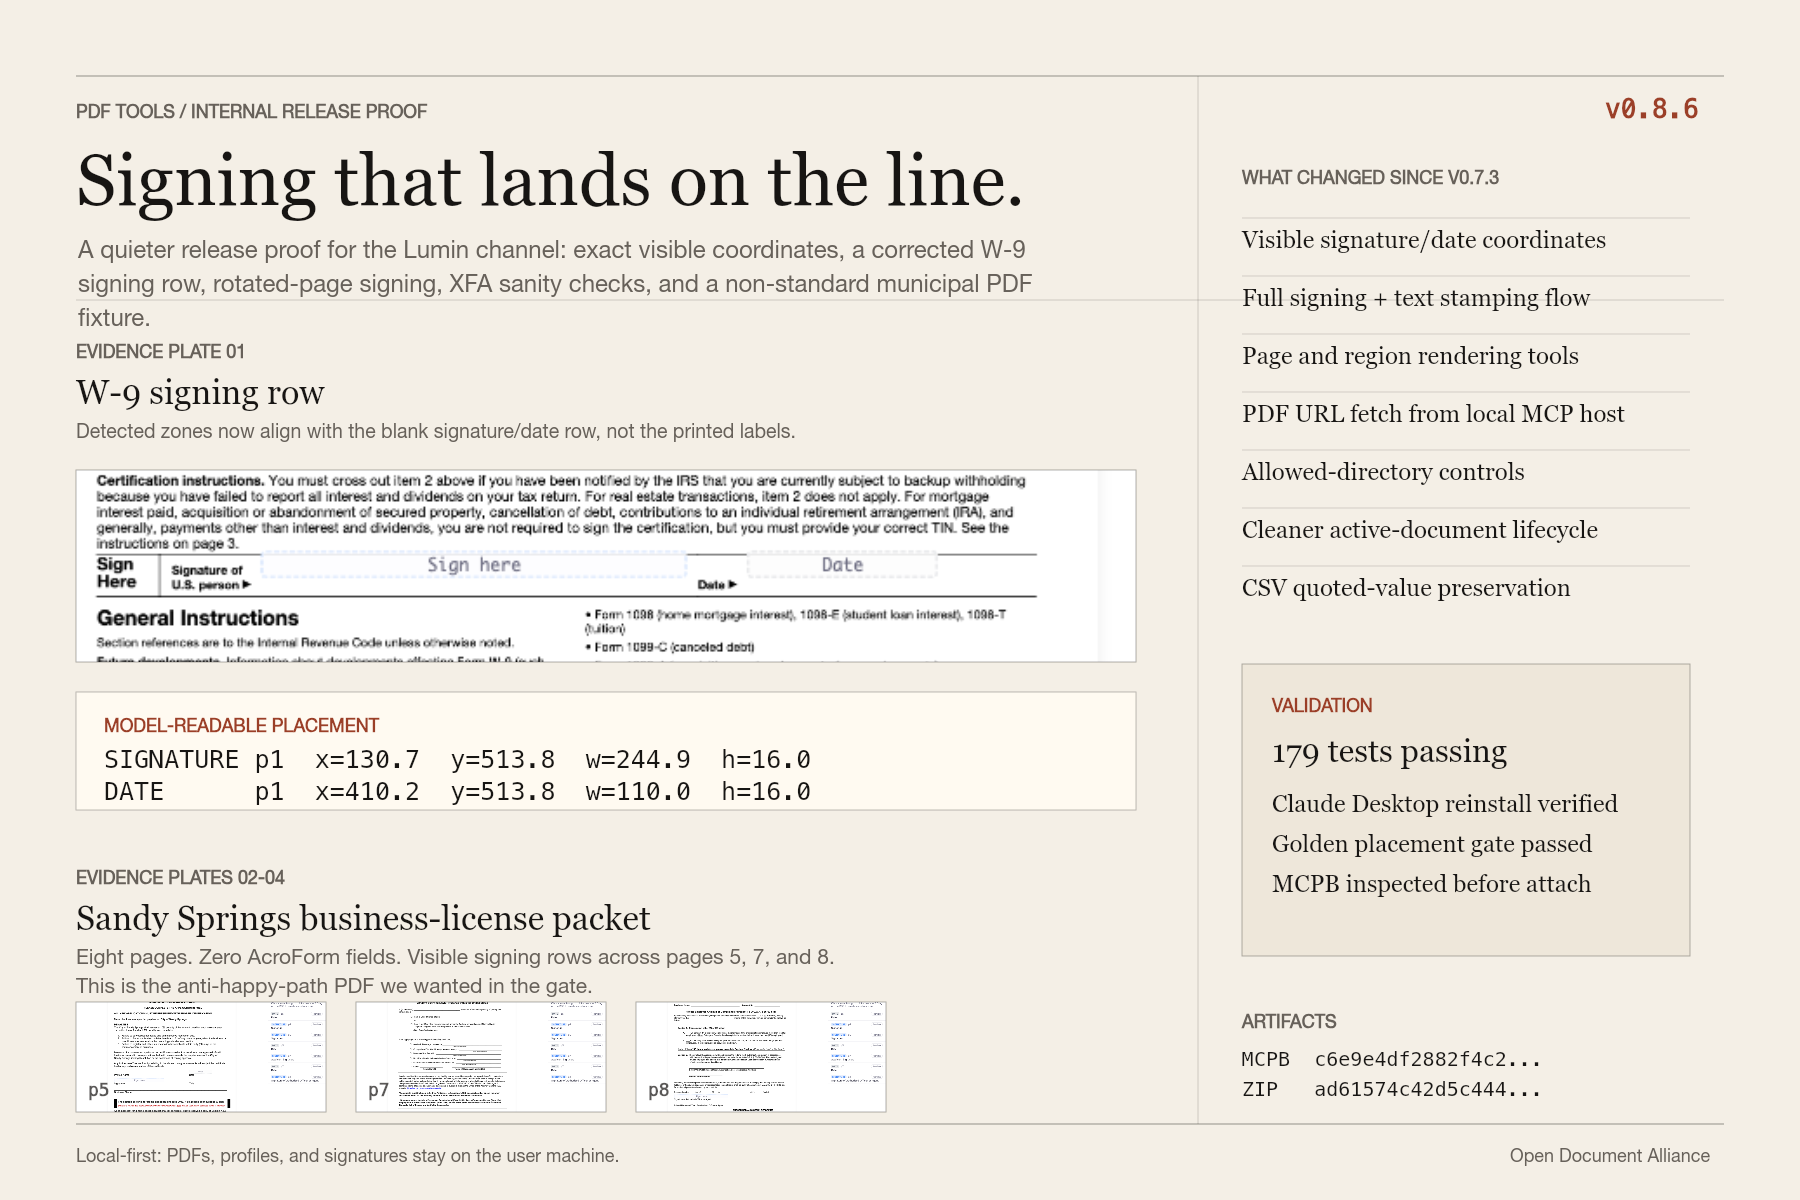
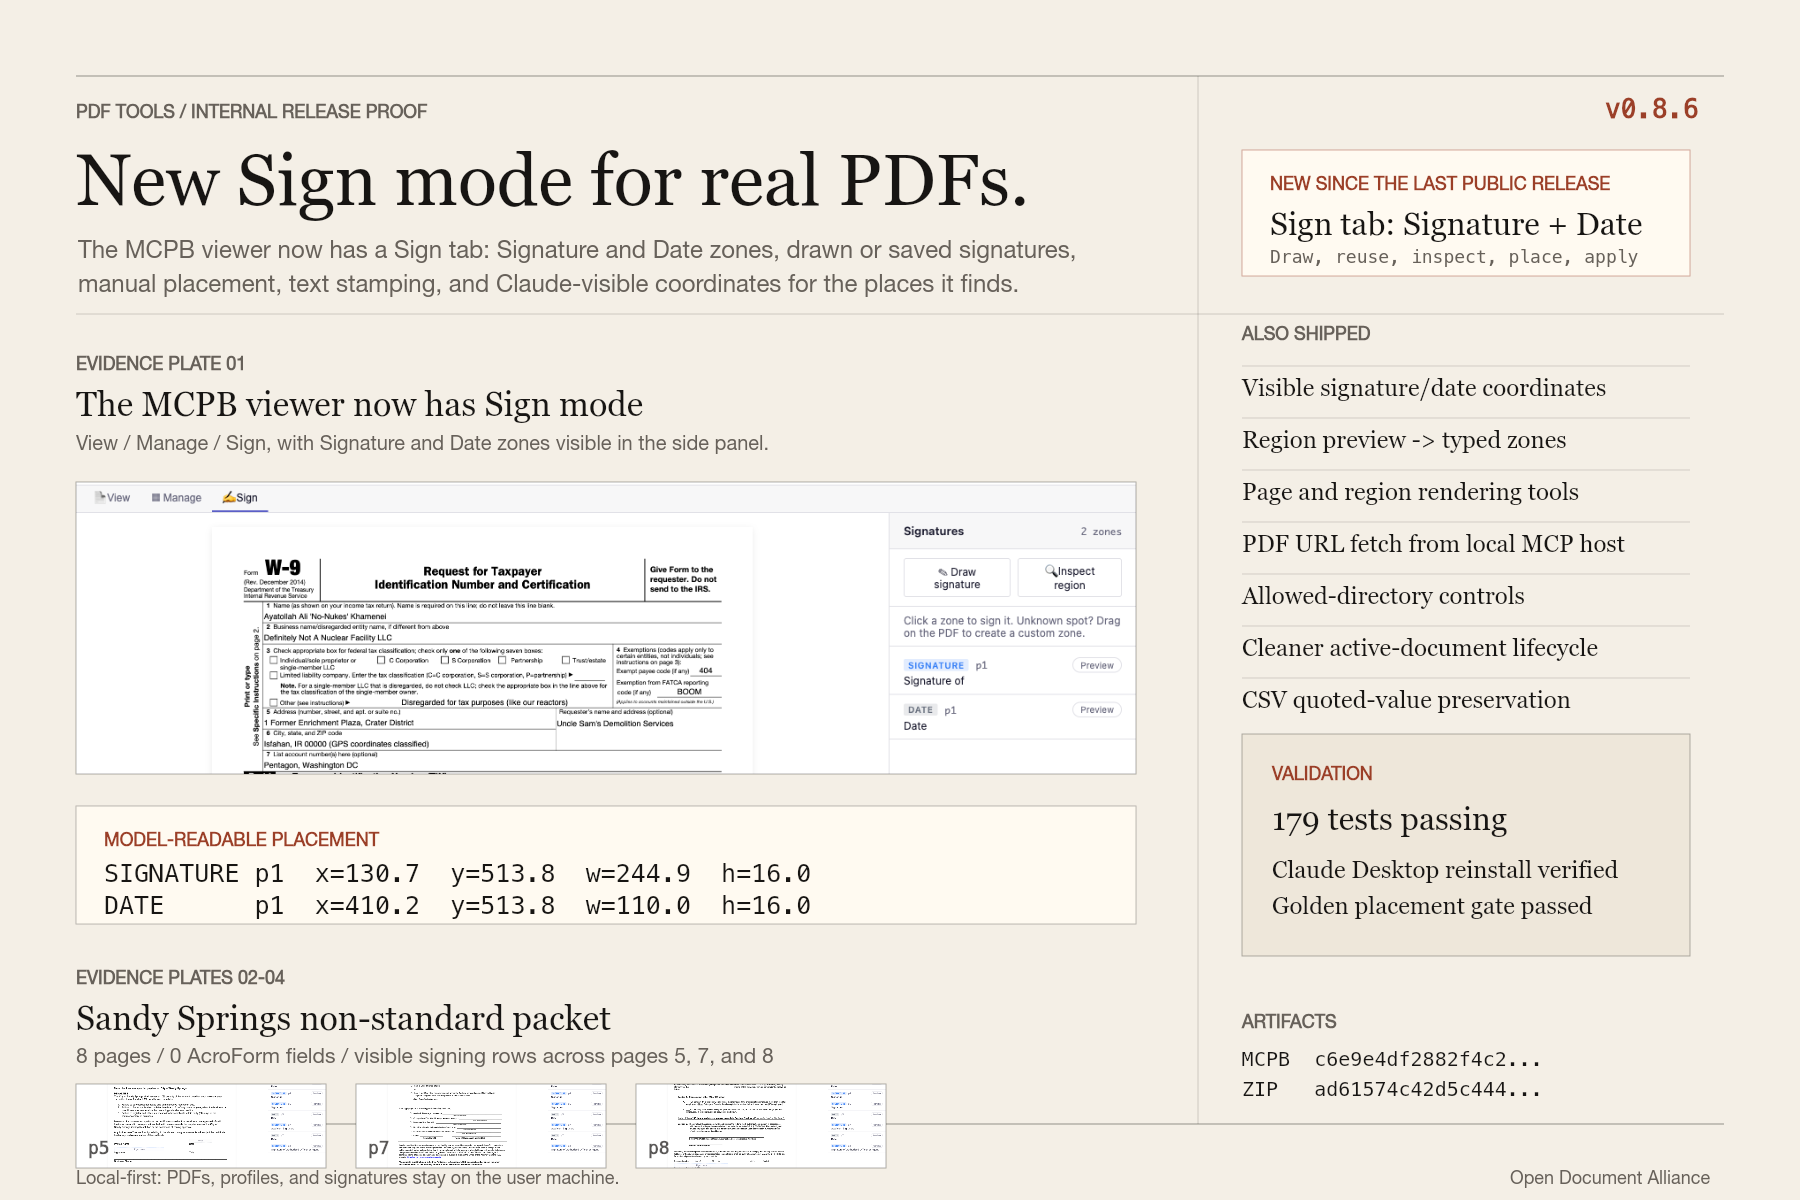
docs: foreground new sign mode in release materials

Changed region(s): [[0.0311, 0.1233, 0.6533, 0.9867], [0.6844, 0.1233, 0.9022, 0.7708], [0.84, 0.9558, 0.9644, 0.9867]]

diff --git a/docs/releases/v0.8.6-lumin-share.md b/docs/releases/v0.8.6-lumin-share.md
@@ -14,14 +14,17 @@ GitHub release, if useful for the team:
 
 Hey team, quick PDF Tools update. We just hardened `v0.8.6`, and I wanted to share the work before we promote it more broadly.
 
-The big theme: Claude is now much better at finding, explaining, and placing signatures/dates on real-world PDFs. The prior versions could detect likely signing areas, but the experience was too easy to get subtly wrong on messy forms: a W-9 signature box could drift toward the printed label, rotated pages could show upright signature overlays on sideways pages, and Claude could have useful coordinates in hidden metadata without those coordinates being visible in the actual response it reasoned from.
+The big theme: PDF Tools now has a real Sign mode in the MCPB viewer. Before this release, the viewer was mostly view/fill/manage/extract. Now Claude can help identify signature/date zones, the UI exposes a Sign tab, users can draw or reuse a saved signature, and signature/date boxes can be placed onto the PDF.
+
+We also hardened the tricky parts of that experience. Claude is now much better at finding, explaining, and placing signatures/dates on real-world PDFs. The prior internal candidates could detect likely signing areas, but the experience was too easy to get subtly wrong on messy forms: a W-9 signature box could drift toward the printed label, rotated pages could show upright signature overlays on sideways pages, and Claude could have useful coordinates in hidden metadata without those coordinates being visible in the actual response it reasoned from.
 
 What changed since the last public release:
 
+- New MCPB viewer Sign mode: Signature and Date zones, Draw signature, saved signatures, manual fields, signing packets, and text stamping.
 - Signature/date detection now returns exact visible coordinates in the tool response, so Claude can say where it found a zone and reason from the same data the UI uses.
 - W-9 signature/date placement was tuned so the boxes sit on the signing row instead of floating near the labels.
 - Rotated-page signing overlays now rotate with the page.
-- The signing surface is much more complete: saved signatures, signing packets, manual signature fields, text stamping, inspect-region, region preview, and preview-to-zone flows.
+- The signing surface includes inspect-region, region preview, and preview-to-zone flows for PDFs where the automatic detector does not know the right spot.
 - Claude now has better PDF reading and visual inspection tools: page-bounded reads, text search, full-page rendering, and region rendering for signatures, stamps, scans, and hard-to-read areas.
 - PDF URLs can now be fetched through the local MCP tool instead of relying on sandboxed shell/web fetches.
 - Claude Desktop users now get explicit allowed-directory controls for local PDF access.
@@ -48,7 +51,7 @@ One honest caveat: the product behavior for preview-to-zone is green, but the `a
 
 ## Shorter Version
 
-PDF Tools `v0.8.6` is a signing + local-PDF reliability release. Since the last public release, Claude gets visible exact signature/date coordinates, a fuller signing/text-stamping surface, page/region rendering, page-bounded reads, PDF URL fetching, allowed-directory controls, cleaner same-document save behavior, rotated-page signing fixes, XFA display checks, and Sandy Springs' non-standard business-license packet as a real-world fixture. Final MCPB was reinstalled and verified in Claude Desktop; 179 tests are passing. Evidence sheet attached.
+PDF Tools `v0.8.6` is the release where the MCPB gets a real Sign mode: Signature and Date zones, drawn/saved signatures, text stamping, manual placement, and Claude-visible coordinates. Since the last public release it also adds page/region rendering, page-bounded reads, PDF URL fetching, allowed-directory controls, cleaner same-document save behavior, rotated-page signing fixes, XFA display checks, and Sandy Springs' non-standard business-license packet as a real-world fixture. Final MCPB was reinstalled and verified in Claude Desktop; 179 tests are passing. Evidence sheet attached.
 
 ## Demo Talking Points
 

diff --git a/docs/releases/v0.8.6.md b/docs/releases/v0.8.6.md
@@ -1,17 +1,17 @@
-# PDF Tools v0.8.6: Better Signing, Stronger Claude Desktop Validation
+# PDF Tools v0.8.6: New Sign Mode, Better Signature Placement
 
-PDF Tools `v0.8.6` makes signing and form workflows more dependable in Claude Desktop and other local MCP hosts.
+PDF Tools `v0.8.6` adds the new Sign mode to the MCPB viewer and makes signing/form workflows more dependable in Claude Desktop and other local MCP hosts.
 
-The biggest upgrade is precision: when Claude detects where a signature or date belongs, it now gets exact, visible coordinates in the tool response, not just hidden structured metadata. That makes it easier for Claude to explain what it found, inspect tricky PDFs, and place signatures on the line instead of near the line.
+The biggest upgrade is that PDFs can now move from "view/fill/manage pages" into an actual signing workflow: Claude can find signature/date zones, the viewer exposes a Sign tab, users can draw or reuse signatures, and date/signature boxes can be placed on the PDF. When Claude detects where a signature or date belongs, it now gets exact, visible coordinates in the tool response, not just hidden structured metadata. That makes it easier for Claude to explain what it found, inspect tricky PDFs, and place signatures on the line instead of near the line.
 
 If you use PDF Tools for W-9s, business forms, municipal applications, rotated pages, or local-first PDF workflows, this is the build to install.
 
 ## Highlights
 
+- Added the new viewer Sign mode: Signature and Date zones, saved/drawn signatures, manual signature fields, signing packets, text stamping, inspect-region, region preview, and preview-to-zone flows.
 - Improved W-9 signature and date placement so detected zones sit on the actual signing/date row instead of drifting toward the printed labels.
 - Added visible coordinate output to `detect_signature_zones`, including page, `x`, `y`, width, height, label, confidence, and source.
 - Fixed rotated-page signing overlays so signatures and dates rotate with the page instead of remaining upright on sideways pages.
-- Added full signing workflows: create/list/load saved signatures, prepare signing packets, add signature fields, apply signatures, apply text, inspect regions, preview regions, and create typed signing zones from previews.
 - Added page-bounded reading and search tools: `read_pdf_pages` and `search_pdf_text`, so Claude can work with targeted excerpts instead of always reading a whole document.
 - Added visual rendering tools: `render_pdf_page` and `render_pdf_region`, including a macOS PDF renderer fallback for tougher scanned or image-heavy PDFs.
 - Added `fetch_pdf_from_url`, giving Claude a local-machine path for downloading PDF URLs that often fail from sandboxed shell/web fetches.
@@ -25,7 +25,7 @@ If you use PDF Tools for W-9s, business forms, municipal applications, rotated p
 
 ## Since the Last Public Release
 
-The previous public GitHub release was `v0.7.3`, so `v0.8.6` includes more than the final placement polish. The broader release adds a signing surface, region inspection/rendering, PDF URL fetching, safer local directory controls, active-document lifecycle hardening, and a much larger automated/manual validation suite.
+The previous public GitHub release was `v0.7.3`, so `v0.8.6` includes more than the final placement polish. The broader release adds the Sign tab/mode, signature and date zone handling, region inspection/rendering, PDF URL fetching, safer local directory controls, active-document lifecycle hardening, and a much larger automated/manual validation suite.
 
 ## Validation
 
